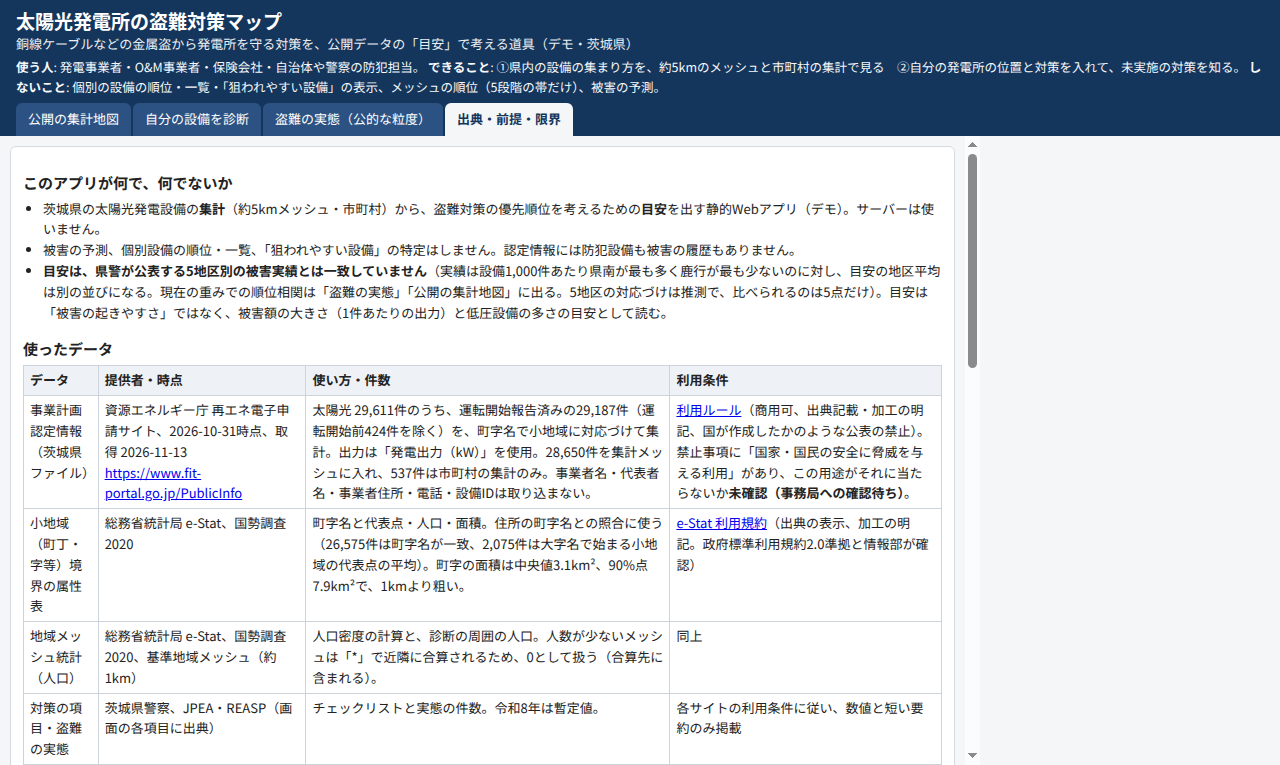
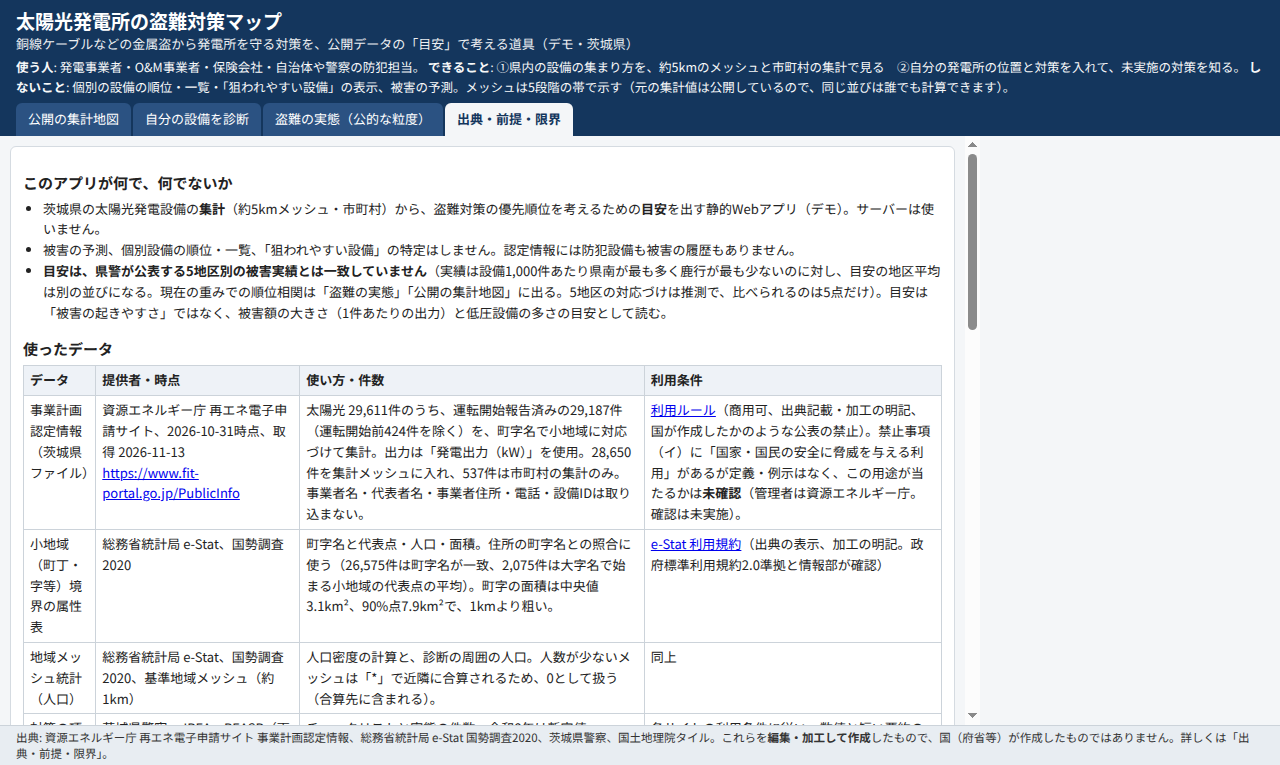
工兵: 太陽光盗難対策マップの憲兵・情報部・デザイン指摘に対応（主張を実装に合わせ弱める、全国2位に訂正、1億円にJPEA p.10、利用ルールの管理者と未確認を明記、出典・加工のフッター常時表示、順位の向きをそろえる、スマホ診断後の結果案内）

Changed region(s): [[0.0, 0.481, 0.9688, 1.0], [0.3125, 0.0902, 0.7812, 0.1203], [0.75, 0.4209, 0.7812, 0.481]]

diff --git a/contests/ichibiz-2026/app/solar-guard/web/app.js b/contests/ichibiz-2026/app/solar-guard/web/app.js
@@ -57,7 +57,7 @@
   }
   function buildDefs() {
     $('ind-defs').innerHTML = '<ul class="note" style="font-size:12.5px;padding-left:18px">' +
-      '<li><b>設備1件あたりの出力</b>: メッシュ内の認定設備（運転開始報告済み）の出力合計kW÷設備数。大きいほど高い。根拠: JPEA・REASPの資料は、高圧設備は被害額が最大と想定され、特別高圧でも1件1億円以上の例があるとする。<b>被害額の大きさの目安であって、被害の起きやすさの証拠ではない</b>。出力合計そのものは設備数とほぼ同じ並びになるため、1件あたりに直した。</li>' +
+      '<li><b>設備1件あたりの出力</b>: メッシュ内の認定設備（運転開始報告済み）の出力合計kW÷設備数。大きいほど高い。根拠: JPEA・REASPの資料p.10は、高圧設備は被害額が最大と想定され、「警備の厳しい特別高圧設備でも、一件当りの被害1億円以上になる例も多く」とする。これは例示で、平均ではない（同資料p.14の最大被害額は特定の発電所ではなく、ケーブル以外の機器の被害も含む。p.14のアンケートの平均は特別高圧4,330万円・高圧2,560万円・低圧150万円で、p.10の「高圧が最大と想定」とは並びが異なる）。<b>被害額の大きさの目安であって、被害の起きやすさの証拠ではない</b>。出力合計そのものは設備数とほぼ同じ並びになるため、1件あたりに直した。</li>' +
       '<li><b>低圧（50kW未満）の割合</b>: メッシュ内の設備のうち出力50kW未満の件数の割合。高いほど高い。根拠: 同資料は「警備体制の弱い低圧事業用設備も短時間犯行の被害が増えている」とし、茨城県警も小規模太陽光での発生が多いとする。警備の強さそのものは測っていない。県内ではどの地区でも低圧が約9割（88〜93%）で、地区のあいだの差は小さい。</li>' +
       '<li><b>周囲の人の少なさ（参考。初期値0）</b>: 集計メッシュの2020年国勢調査人口÷(25×約1.04km²)＝常住人口密度。低いほど高い。JPEA・REASPの資料や茨城県警は「人目につきにくい立地」を挙げるが、県警の5地区別の被害と照らすと対応せず（下の「県警の被害実績との食い違い」）、常住人口は夜間・休日の人通りや見通しの代理として弱いため、初期は目安に使わない。海に面したメッシュは海の面積も含むため人口密度が低く出る。</li>' +
       '<li>3つとも「公開データから作れる代理指標」で、防犯設備・被害の履歴・実際の見通しは含まない。重みに公的な根拠はなく、初期値は「出力1・低圧割合1・人の少なさ0」。県警の被害実績に合わせて決めたものではなく、実績に合わせて重みを変えて「当たる」ことを示す使い方はしない（5地区の5点だけで検証できない）。</li></ul>';
@@ -84,15 +84,15 @@
   function renderDist() {
     if (!S.dist) return;
     var d = S.dist, n = d.rows.length;
-    var h = '<div class="scroll"><table class="dist cards"><tr><th class="l">地区（県の区分で推測）</th><th>県警の被害（件）</th><th>設備数</th><th>設備1,000件あたりの被害</th><th>被害率の順</th><th>目安の地区平均の順</th></tr>';
+    var h = '<div class="scroll"><table class="dist cards"><tr><th class="l">地区（県の区分で推測）</th><th>県警の被害（件）</th><th>設備数</th><th>被害率（設備1,000件あたりの県警の件数。参考値）</th><th>被害率の順（高い方から）</th><th>目安の地区平均の順（高い方から）</th></tr>';
     d.rows.slice().sort(function (a, b) { return (b.rate || 0) - (a.rate || 0); }).forEach(function (r) {
-      h += '<tr><td class="l" data-label="地区">' + esc(r.area) + '</td><td data-label="県警の被害（件）">' + n0(r.theft) + '</td><td data-label="設備数">' + n0(r.plants) + '</td><td data-label="設備1,000件あたりの被害">' + (r.rate == null ? '—' : n1(r.rate)) + '</td><td data-label="被害率の順">' + (r.rankRate == null ? '—' : r.rankRate + '位／' + n) + '</td><td data-label="目安の地区平均の順">' + (r.rankScore == null ? '—' : r.rankScore + '位／' + n) + '</td></tr>';
+      h += '<tr><td class="l" data-label="地区">' + esc(r.area) + '</td><td data-label="県警の被害（件）">' + n0(r.theft) + '</td><td data-label="設備数">' + n0(r.plants) + '</td><td data-label="被害率（設備1,000件あたり。参考値）">' + (r.rate == null ? '—' : n1(r.rate)) + '</td><td data-label="被害率の順（高い方から）">' + (r.rankRate == null ? '—' : r.rankRate + '位／' + n) + '</td><td data-label="目安の地区平均の順（高い方から）">' + (r.rankScore == null ? '—' : r.rankScore + '位／' + n) + '</td></tr>';
     });
     h += '</table></div>';
     var msg = S.zero || d.rho == null ? '重みがすべて0のため、目安の側は出ません。' :
       '現在の重みでは、被害率の順と目安の地区平均の順の順位相関は <b>' + d.rho.toFixed(2) + '</b>（+1で一致、−1で逆）。' + (d.rho > 0 ? '' : '<b>目安は県警の地区別の被害と逆向きか、対応していません。</b>') + '5点だけの比較で、有意とは言えません。';
-    var html = '<p class="note">' + msg + '（順は、被害率が高い・目安が高い地区ほど上位。被害は県警が公表している地区別の件数）</p>' + h +
-      '<p class="note">地区ごとの設備数は、県の地域区分の市町村の設備数を足したもの。県警の5地区が県の区分と同じ市町村の範囲かは誌面に記載がなく、<b>この対応は推測</b>です。令和8年9月末の暫定値で、期間は1年に満たない。</p>';
+    var html = '<p class="note">' + msg + '（順は、被害率・目安のどちらも高い方から1位。被害は県警が公表している地区別の件数）</p>' + h +
+      '<p class="note"><b>被害率</b>は、分子が県警の「太陽光発電施設関係」の発生件数（出力20kW未満や認定外の設備の件数を含みうる）、分母が認定情報の運転開始報告済み・出力20kW以上の設備数で、定義が違うため参考値。地区ごとの設備数は、県の地域区分の市町村の設備数を足したもの。県警の5地区が県の区分と同じ市町村の範囲かは誌面に記載がなく、<b>この対応は推測</b>です。令和8年9月末の暫定値で、期間は1年に満たない。</p>';
     ['dist-compare', 'dist-compare2'].forEach(function (id) { if ($(id)) $(id).innerHTML = html; });
   }
 
@@ -234,6 +234,15 @@
     $('in-lat').value = lat.toFixed(4); $('in-lon').value = lon.toFixed(4);
     msg.textContent = '位置を受け取りました（この端末の中だけで使います。地図は動かしません）。'; msg.className = 'note';
     showPoint(); renderDiag();
+    showSummary();
+  }
+  /* 診断直後に、受付欄へ結果の要約と「結果を見る」案内を出す（スクロールは勝手にしない。回答の変更では更新しない） */
+  function showSummary() {
+    var msg = $('pos-msg'), r = S.res;
+    if (!r) return;
+    msg.innerHTML = '位置を受け取りました（この端末の中だけで使います。地図は動かしません）。<b>診断しました</b>: 対象' + r.total + '項目のうち、実施していない' + r.notDone.length + '件・わからない' + r.unknown.length + '件。 <a href="#box-result" id="go-result">結果を見る</a>';
+    msg.className = 'note';
+    $('go-result').addEventListener('click', function (e) { e.preventDefault(); $('box-result').scrollIntoView({ block: 'start' }); });
   }
   function showPoint() {
     if (!map || !mapReady || S.diag.lon == null) return;
@@ -312,25 +321,25 @@
       '<li>被害の予測、個別設備の順位・一覧、「狙われやすい設備」の特定はしません。認定情報には防犯設備も被害の履歴もありません。</li>' +
       '<li><b>目安は、県警が公表する5地区別の被害実績とは一致していません</b>（実績は設備1,000件あたり県南が最も多く鹿行が最も少ないのに対し、目安の地区平均は別の並びになる。現在の重みでの順位相関は「盗難の実態」「公開の集計地図」に出る。5地区の対応づけは推測で、比べられるのは5点だけ）。目安は「被害の起きやすさ」ではなく、被害額の大きさ（1件あたりの出力）と低圧設備の多さの目安として読む。</li></ul>' +
       '<h2>使ったデータ</h2><table><tr><th class="l">データ</th><th class="l">提供者・時点</th><th class="l">使い方・件数</th><th class="l">利用条件</th></tr>' +
-      '<tr><td class="l">事業計画認定情報（茨城県ファイル）</td><td class="l">資源エネルギー庁 再エネ電子申請サイト、' + esc(m.as_of) + '時点、取得 ' + esc(m.retrieved) + '<br>' + link(m.plants_url, m.plants_url) + '</td><td class="l">太陽光 ' + n0(st.rows) + '件のうち、運転開始報告済みの' + n0(st.counted) + '件（運転開始前' + n0(st.not_started) + '件を除く）を、町字名で小地域に対応づけて集計。出力は「発電出力（kW）」を使用。' + n0(st.placed) + '件を集計メッシュに入れ、' + n0(st.unplaced) + '件は市町村の集計のみ。事業者名・代表者名・事業者住所・電話・設備IDは取り込まない。</td><td class="l">' + link(m.terms_url, '利用ルール') + '（商用可、出典記載・加工の明記、国が作成したかのような公表の禁止）。禁止事項に「国家・国民の安全に脅威を与える利用」があり、この用途がそれに当たらないか<b>未確認（事務局への確認待ち）</b>。</td></tr>' +
+      '<tr><td class="l">事業計画認定情報（茨城県ファイル）</td><td class="l">資源エネルギー庁 再エネ電子申請サイト、' + esc(m.as_of) + '時点、取得 ' + esc(m.retrieved) + '<br>' + link(m.plants_url, m.plants_url) + '</td><td class="l">太陽光 ' + n0(st.rows) + '件のうち、運転開始報告済みの' + n0(st.counted) + '件（運転開始前' + n0(st.not_started) + '件を除く）を、町字名で小地域に対応づけて集計。出力は「発電出力（kW）」を使用。' + n0(st.placed) + '件を集計メッシュに入れ、' + n0(st.unplaced) + '件は市町村の集計のみ。事業者名・代表者名・事業者住所・電話・設備IDは取り込まない。</td><td class="l">' + link(m.terms_url, '利用ルール') + '（商用可、出典記載・加工の明記、国が作成したかのような公表の禁止）。禁止事項（イ）に「国家・国民の安全に脅威を与える利用」があるが定義・例示はなく、この用途が当たるかは<b>未確認</b>（管理者は資源エネルギー庁。確認は未実施）。</td></tr>' +
       '<tr><td class="l">小地域（町丁・字等）境界の属性表</td><td class="l">総務省統計局 e-Stat、国勢調査2020</td><td class="l">町字名と代表点・人口・面積。住所の町字名との照合に使う（' + n0(st.placed_exact) + '件は町字名が一致、' + n0(st.placed_ohaza) + '件は大字名で始まる小地域の代表点の平均）。町字の面積は中央値' + st.town_area_km2_median + 'km²、90%点' + st.town_area_km2_p90 + 'km²で、1kmより粗い。</td><td class="l">' + link(m.estat_terms, 'e-Stat 利用規約') + '（出典の表示、加工の明記。政府標準利用規約2.0準拠と情報部が確認）</td></tr>' +
       '<tr><td class="l">地域メッシュ統計（人口）</td><td class="l">総務省統計局 e-Stat、国勢調査2020、基準地域メッシュ（約1km）</td><td class="l">人口密度の計算と、診断の周囲の人口。人数が少ないメッシュは「*」で近隣に合算されるため、0として扱う（合算先に含まれる）。</td><td class="l">同上</td></tr>' +
       '<tr><td class="l">対策の項目・盗難の実態</td><td class="l">茨城県警察、JPEA・REASP（画面の各項目に出典）</td><td class="l">チェックリストと実態の件数。令和8年は暫定値。</td><td class="l">各サイトの利用条件に従い、数値と短い要約のみ掲載</td></tr>' +
       '<tr><td class="l">背景地図</td><td class="l">地理院タイル（淡色地図）</td><td class="l">地図の背景のみ。地理院の住所検索APIは使っていない</td><td class="l">国土地理院の利用規約</td></tr>' +
       '<tr><td class="l">描画</td><td class="l">MapLibre GL JS 4.7.1</td><td class="l"></td><td class="l">BSD-3-Clause</td></tr></table>' +
       '<p class="note">本アプリは、再エネ電子申請サイトの認定情報と、総務省統計局 e-Stat の国勢調査データを加工して作成した。国（資源エネルギー庁・総務省統計局）が作成したものではない。</p>' +
-      '<h2>目安の定義と、県警の被害実績との食い違い</h2><ul><li>3つの指標（設備1件あたりの出力・低圧の割合・周囲の人の少なさ）を、県内の集計メッシュ' + n0(S.cells.length) + '個の中での相対位置に直し、利用者が決める重みで平均。画面と書き出しに出すのは5段階の帯だけで、連続のスコアや各指標の順位に当たる値は出さない。初期の重みは「出力1・低圧割合1・人の少なさ0」。定義と根拠は「公開の集計地図」の「3つの指標の定義と根拠」。</li>' +
+      '<h2>目安の定義と、県警の被害実績との食い違い</h2><ul><li>3つの指標（設備1件あたりの出力・低圧の割合・周囲の人の少なさ）を、県内の集計メッシュ' + n0(S.cells.length) + '個の中での相対位置に直し、利用者が決める重みで平均。画面と書き出しに出すのは5段階の帯で、連続のスコアや各指標の順位の列は出さない（同点の多い帯であって、順位の隠蔽ではない。元の集計値は公開しており、指標は誰でも再計算できる）。初期の重みは「出力1・低圧割合1・人の少なさ0」。定義と根拠は「公開の集計地図」の「3つの指標の定義と根拠」。</li>' +
       '<li><b>見直しの経緯</b>: 最初の版は「人の少なさ・出力合計・低圧割合」を等しい重みで平均していた。県警の5地区別の被害（設備1,000件あたり）と市町村の目安の地区平均を並べると逆向き（順位相関−0.90）だった。そこで、被害の実績に合わせるのではなく、指標そのものの妥当性から (1) 常住人口の少なさを初期値0の参考にする（人目の代理として弱く、海面を含むメッシュで高く出る）、(2) 出力合計は設備数とほぼ同じ並びなので1件あたりの出力に直す、の2点を直した。見直しの際に実績の並びを見ているので、独立の検証ではない。見直し後も実績とは一致せず（初期の重みで順位相関−0.60）、一致するとは主張しない。</li>' +
       '<li>相対位置なので、県全体が安全・危険という意味はない。指標の選び方と重みに公的な根拠はなく、的中率などの検証はしていない。</li></ul>' +
       '<h2>悪用を防ぐ設計</h2><ul>' +
       '<li>犯人は事前に下見をする（JPEA・REASP p.9、茨城県警）。そのため、個別設備の位置・順位・一覧は作らない。公開データから取り込む設備の行は、ビルド時に集計して捨て、画面・書き出しのデータには残らない。</li>' +
-      '<li>公開は約5kmメッシュと市町村の集計のみ。メッシュの順位が作れないよう、画面・書き出し・公開のデータに、メッシュの連続スコアや各指標の順位に当たる値は出さず、5段階の帯（同じ帯に多数のメッシュが入る）にとどめる。出すのは件数・出力計・50kW未満の件数・人口など、元の公開データから集計できる値。</li>' +
-      '<li>設備が' + m.k_min + '件未満のメッシュ・市町村は、件数・容量・指標を出力しない。さらに、設備が' + m.dom_n + '件未満のメッシュは、50kW以上の設備が1件以下なら隠す（件数・出力計・50kW未満の件数から、その1件の出力が狭い幅で割り出せるため）。出力計は' + m.kw_round + 'kW単位に丸めて出す。' + n0(st.cells_hidden) + 'メッシュ（設備計' + n0(st.plants_in_hidden_cells) + '件）を隠している。しきい値は小さい集計を隠すための最小限の目安で、統計的な匿名性を保証するものではない。市町村の合計とメッシュの合計の差から、隠したメッシュの合計は推定できる。</li>' +
+      '<li>公開は約5kmメッシュと市町村の集計のみ。メッシュの目安は5段階の帯（同じ帯に多数のメッシュが入る）で示し、連続スコアや各指標の順位の列は出さない。ただし、出している件数・出力計・50kW未満の件数・人口は元の公開データから集計した値で、これらから3つの指標は誰でも再計算でき、並べ替えれば同じような並びを作れる。帯は手がかりを足さないための表示の工夫で、順位が作れないことを保証するものではない。公開する集計値の粒度は、総司令官の判断待ち。</li>' +
+      '<li>設備が' + m.k_min + '件未満のメッシュ・市町村は、件数・容量・指標を出力しない。さらに、設備が' + m.dom_n + '件未満のメッシュは、50kW以上の設備が1件以下なら隠す（件数・出力計・50kW未満の件数から、その1件の出力が狭い幅で割り出せるため）。設備が'+m.dom_n+'件以上でも1件の大きな設備が出力計の大半を占めるメッシュは残る（対策していない。元の認定情報が出力まで公開しているため新たに漏れる情報はほぼないが、しきい値に統計的な根拠はない）。出力計は' + m.kw_round + 'kW単位に丸めて出す。' + n0(st.cells_hidden) + 'メッシュ（設備計' + n0(st.plants_in_hidden_cells) + '件）を隠している。しきい値は小さい集計を隠すための最小限の目安で、統計的な匿名性を保証するものではない。市町村の合計とメッシュの合計の差から、隠したメッシュの合計は推定できる。</li>' +
       '<li>事業者の自己診断は、入力をブラウザの中で計算し、送信も保存もしない。診断の位置は約5kmメッシュの単位でだけ使う（人口もこの単位）。座標を入力しても地図は動かさず、地図の拡大も縮尺11（約16km四方のタイル）までに制限する。ただし地図を動かして見ている範囲の地図画像は、地理院が受け取るので、見ている範囲は地理院に伝わる。茨城県の外・海上の座標は受け付けない。</li>' +
       '<li>盗難の実態は、警察が公表している粒度（全国・県・県内5地区）にとどめた。</li>' +
       '<li>国は盗難防止の情報を、太陽光発電設備を設置する者など盗難に遭うおそれが大きい者に周知する形（盗難特定金属製物品の処分の防止等に関する法律 第16条。情報部の確認）を取っている。当事者が自分で使う診断はこの趣旨に沿う、というのが設計の考え方である（推測）。ただし元データの認定情報は地番まで公開されており、このアプリの秘匿は「他人に見つけられなくする」ものではなく、「元データ以上の手がかり（手薄さの順位）を足さない」ためのもの。</li></ul>' +
       '<h2>限界・要確認</h2><ul>' +
-      '<li><b>認定情報の利用ルールの禁止事項「国家・国民の安全に脅威を与える利用」に、この用途が当たらないかは未確認（事務局への確認待ち）。公開前に確認が要る。</b></li>' +
+      '<li><b>認定情報の利用ルールの禁止事項（イ）「国家・国民の安全に脅威を与える利用」に、この用途が当たるかは未確認。</b>利用ルール（再エネ電子申請サイト「ご利用上の注意」）の管理者は資源エネルギー庁で、禁止事項に定義・例示はない。資源エネルギー庁への確認は未実施（同庁への問い合わせは電話のみ）。公開前に確認が要る。</li>' +
       '<li>県警の5地区が茨城県の地域区分（県北・県央・鹿行・県南・県西）と同じ市町村の範囲かは誌面に記載がなく、地区別の設備数との対応は推測。被害は令和8年9月末の暫定値（期間は1年に満たない）で、「9月末」が累計かは誌面に明記がない。</li>' +
       '<li>目安と県警の地区別の被害は一致していない（上記）。県南・県西は千葉・埼玉に近く、アクセスや逃げやすさが効いている可能性があるが、検証していない（推測）。</li>' +
       '<li>出力20kW未満の太陽光は元データに含まれない。JPEA・REASPの資料では事業用の認定件数の94.6%が10〜50kW未満（2024年3月末）なので、小規模設備の一部は集計に入らない。</li>' +
@@ -357,7 +366,7 @@
     rows.push(['# 太陽光発電所の盗難対策マップ（デモ・茨城県）の集計。個別設備は含みません。被害の予測ではなく、公開情報から作った目安です。']);
     rows.push(['# 出典', m.plants_source + '（' + m.as_of + '時点、取得' + m.retrieved + '）を加工して作成。' + m.boundary_source + '。' + m.mesh_source + '。国が作成したものではありません。']);
     rows.push(['# 前提', '約5kmメッシュ（1kmメッシュ×5）。設備が' + m.k_min + '件未満のメッシュ・市町村は出力しません。位置は町字の代表点（広い大字ではずれます）。出力20kW未満は元データにありません。']);
-    rows.push(['# 重み', '設備1件あたりの出力=' + w.kw + ' 低圧割合=' + w.small + ' 人の少なさ=' + w.quiet + '（指標は県内の集計メッシュ／市町村の中での相対位置。目安は5段階の帯だけを出し、連続のスコア・順位は出しません）']);
+    rows.push(['# 重み', '設備1件あたりの出力=' + w.kw + ' 低圧割合=' + w.small + ' 人の少なさ=' + w.quiet + '（指標は県内の集計メッシュ／市町村の中での相対位置。目安は5段階の帯で示し、連続のスコア・順位の列は出しません。ただし元の集計値は含むので、並べ替えれば同じような並びは作れます）']);
     rows.push(['# 注意', '目安は県警の5地区別の被害実績とは一致していません（5地区と市町村の対応は推測）。出力計は' + m.kw_round + 'kW単位に丸めています。設備が少なく大きな設備の出力が推測できるメッシュも出力しません。']);
     rows.push([]);
     rows.push(['メッシュ別']);

diff --git a/contests/ichibiz-2026/app/solar-guard/web/index.html b/contests/ichibiz-2026/app/solar-guard/web/index.html
@@ -11,7 +11,7 @@
 <body data-tab="map">
 <header>
   <h1>太陽光発電所の盗難対策マップ <span>銅線ケーブルなどの金属盗から発電所を守る対策を、公開データの「目安」で考える道具（デモ・茨城県）</span></h1>
-  <p class="lead"><b>使う人</b>: 発電事業者・O&amp;M事業者・保険会社・自治体や警察の防犯担当。 <b>できること</b>: ①県内の設備の集まり方を、約5kmのメッシュと市町村の集計で見る　②自分の発電所の位置と対策を入れて、未実施の対策を知る。 <b>しないこと</b>: 個別の設備の順位・一覧・「狙われやすい設備」の表示、メッシュの順位（5段階の帯だけ）、被害の予測。</p>
+  <p class="lead"><b>使う人</b>: 発電事業者・O&amp;M事業者・保険会社・自治体や警察の防犯担当。 <b>できること</b>: ①県内の設備の集まり方を、約5kmのメッシュと市町村の集計で見る　②自分の発電所の位置と対策を入れて、未実施の対策を知る。 <b>しないこと</b>: 個別の設備の順位・一覧・「狙われやすい設備」の表示、被害の予測。メッシュは5段階の帯で示す（元の集計値は公開しているので、同じ並びは誰でも計算できます）。</p>
   <nav id="tabs" role="tablist" aria-label="画面の切り替え">
     <button type="button" role="tab" id="tab-map" data-tab="map" aria-selected="true">公開の集計地図</button>
     <button type="button" role="tab" id="tab-diag" data-tab="diag" aria-selected="false">自分の設備を診断</button>
@@ -29,15 +29,15 @@
         <ul>
           <li><b>被害の予測ではなく、公開情報から作った目安</b>です。認定情報には防犯設備も被害の履歴も入っていないため、「守りが手薄」は直接測れません。目安は3つの代理指標（下で重みを変えられます）の相対的な位置で、的中率などの検証はしていません。</li>
           <li><b>県警が公表する5地区別の被害実績と、この目安は一致していません</b>（下の「県警の被害実績との食い違い」）。「被害の起きやすさ」ではなく、被害額の大きさと低圧設備の多さの目安として読んでください。</li>
-          <li>表示するのは<b>約5kmのメッシュと市町村の集計だけ</b>。メッシュは<b>5段階の帯</b>だけで、順位や連続のスコアは出しません。設備が<span id="kmin">3</span>件未満などのメッシュは<b>色を付けずに隠します</b>（設備がないメッシュと見分けがつきません）。個別設備は地図にも表にも出ません。</li>
-          <li><b>認定情報の利用ルールの禁止事項「国家・国民の安全に脅威を与える利用」に、この用途が当たらないかは未確認</b>です（事務局への確認待ち）。</li>
+          <li>表示するのは<b>約5kmのメッシュと市町村の集計だけ</b>。メッシュの目安は<b>5段階の帯</b>で示し、連続のスコアや順位の列は出しません（ただし元の集計値は公開しているため、同じ並びは計算できます）。設備が<span id="kmin">3</span>件未満などのメッシュは<b>色を付けずに隠します</b>（設備がないメッシュと見分けがつきません）。個別設備は地図にも表にも出ません。</li>
+          <li><b>認定情報の利用ルールの禁止事項（イ）「国家・国民の安全に脅威を与える利用」に、この用途が当たるかは未確認</b>です。利用ルールの管理者は資源エネルギー庁（<a href="https://www.fit-portal.go.jp/Terms" target="_blank" rel="noopener">再エネ電子申請サイト「ご利用上の注意」</a>）で、禁止事項に定義・例示はなく、確認は未実施です。</li>
           <li>設備の位置は<b>町字（大字）の代表点</b>で、広い大字ではメッシュがずれることがあります。出力20kW未満の太陽光は元データに含まれません。</li>
         </ul>
       </div>
       <div class="box">
         <h2>目安の重み <span class="sub">（0〜5。0にするとその指標を使わない）</span></h2>
         <div id="weights"></div>
-        <p class="note">各指標を「県内の集計メッシュの中での相対的な位置」に直し、重みで平均して、色は5段階の帯にします。連続のスコアや順位は出しません。初期値は、人の少なさを0（参考）にしています（理由は下の定義）。</p>
+        <p class="note">各指標を「県内の集計メッシュの中での相対的な位置」に直し、重みで平均して、色は5段階の帯にします。連続のスコアや順位の列は出しません。初期値は、人の少なさを0（参考）にしています（理由は下の定義）。</p>
         <details><summary>3つの指標の定義と根拠</summary><div id="ind-defs"></div></details>
       </div>
       <div class="box" id="dist-box">
@@ -52,7 +52,7 @@
       </div>
       <div class="box">
         <h2>書き出し（集計のみ）</h2>
-        <p class="note">メッシュ別と市町村別の集計・前提・出典を1つのCSV（UTF-8、BOM付き）にします。目安は5段階の帯だけで、順位は含みません。個別設備は含みません。この端末の中で作るだけで、どこにも送信しません。</p>
+        <p class="note">メッシュ別と市町村別の集計・前提・出典を1つのCSV（UTF-8、BOM付き）にします。目安は5段階の帯だけで、連続のスコアや順位の列は含みません（元の集計値は含むので、並べ替えれば同じ並びは作れます）。個別設備は含みません。この端末の中で作るだけで、どこにも送信しません。</p>
         <button id="btn-csv" type="button" class="primary">集計をCSVでダウンロード</button>
       </div>
     </div>
@@ -106,6 +106,7 @@
     <div id="legend"></div>
   </section>
 </main>
+<footer id="credit">出典: 資源エネルギー庁 再エネ電子申請サイト 事業計画認定情報、総務省統計局 e-Stat 国勢調査2020、茨城県警察、国土地理院タイル。これらを<b>編集・加工して作成</b>したもので、国（府省等）が作成したものではありません。詳しくは「出典・前提・限界」。</footer>
 
 <script src="https://unpkg.com/maplibre-gl@4.7.1/dist/maplibre-gl.js" integrity="sha384-SYKAG6cglRMN0RVvhNeBY0r3FYKNOJtznwA0v7B5Vp9tr31xAHsZC0DqkQ/pZDmj" crossorigin="anonymous"></script>
 <script src="lib.js"></script>

diff --git a/contests/ichibiz-2026/app/solar-guard/web/style.css b/contests/ichibiz-2026/app/solar-guard/web/style.css
@@ -11,6 +11,7 @@ main { display: grid; grid-template-columns: minmax(420px, 580px) 1fr; flex: 1 1
 body[data-tab=reality] main, body[data-tab=about] main { grid-template-columns: 1fr; }
 body[data-tab=reality] #mapwrap, body[data-tab=about] #mapwrap { display: none; }
 body[data-tab=reality] #panel, body[data-tab=about] #panel { max-width: 980px; }
+footer#credit { flex: none; padding: 3px 16px; font-size: 11.5px; line-height: 1.45; background: #e8edf2; color: #333; border-top: 1px solid #ccd3da; }
 #panel { overflow-y: auto; padding: 10px; min-height: 0; }
 .pane[hidden] { display: none; }
 #mapwrap { position: relative; }
@@ -70,6 +71,7 @@ td.l, th.l { text-align: left; }
 @media (max-width: 720px) {
   body { font-size: 14px; height: auto; display: block; overflow: visible; }
   header h1 { font-size: 16px; }
+  footer#credit { position: sticky; bottom: 0; z-index: 5; font-size: 11px; padding: 3px 10px; }
   main { display: flex; flex-direction: column; height: auto; }
   #mapwrap { order: 1; height: 340px; flex: none; }
   #panel { order: 2; overflow: visible; }

diff --git a/contests/ichibiz-2026/app/solar-guard/tests/lib_test.js b/contests/ichibiz-2026/app/solar-guard/tests/lib_test.js
@@ -165,6 +165,9 @@ t('県警の5地区との比較: 市町村の対応・順位相関の計算', ()
   assert.equal(d.rows.length, 5);
   d.rows.forEach((r) => assert.ok(r.plants > 1000 && r.rate > 0 && r.rankScore >= 1 && r.rankScore <= 5));
   assert.ok(d.rho >= -1 && d.rho <= 1);
+  // 順位は高い方から1位（デザイン審査 M1）。被害率が最大の県南が被害率1位、最小の鹿行が5位。README の表と同じ
+  const rk = {}; d.rows.forEach((r) => { rk[r.area] = [r.rankRate, r.rankScore]; });
+  assert.deepEqual(rk, { 県西: [2, 5], 県南: [1, 4], 県央: [4, 3], 鹿行: [5, 2], 県北: [3, 1] });
   // README・画面に書いた値（初期の重みで −0.60、最初の版の重みで −0.90）と合う
   assert.equal(d.rho.toFixed(2), '-0.60');
   assert.equal(G.districtCompare(R, T, G.scoreMunis(munis.rows, { quiet: 1, kw: 1, small: 1 })).rho != null, true);

diff --git a/contests/ichibiz-2026/app/solar-guard/web/lib.js b/contests/ichibiz-2026/app/solar-guard/web/lib.js
@@ -137,7 +137,8 @@
       for (var i = 0; i < n; i++) { c += (rr[i] - ma) * (rs[i] - mb); va += (rr[i] - ma) * (rr[i] - ma); vb += (rs[i] - mb) * (rs[i] - mb); }
       rho = va && vb ? c / Math.sqrt(va * vb) : null;
     }
-    ok.forEach(function (r, i) { r.rankRate = Math.round(rr[i] / 100 * (n - 1)) + 1; r.rankScore = Math.round(rs[i] / 100 * (n - 1)) + 1; }); // 1=最低 … n=最高
+    ok.forEach(function (r, i) { r.rankRate = Math.round(rr[i] / 100 * (n - 1)) + 1; r.rankScore = Math.round(rs[i] / 100 * (n - 1)) + 1; }); // 1=最低 … n=最高（計算用の昇順）
+    ok.forEach(function (r) { r.rankRate = n + 1 - r.rankRate; r.rankScore = n + 1 - r.rankScore; }); // 表示用に、高い方から1位へ向きをそろえる
     return { rows: rows, rho: rho };
   }
 

diff --git a/contests/ichibiz-2026/app/solar-guard/fetch_raw.py b/contests/ichibiz-2026/app/solar-guard/fetch_raw.py
@@ -4,7 +4,7 @@
 
 1. 認定情報（資源エネルギー庁 再エネ電子申請サイト）茨城県ファイル: 公表ページのリンクから都道府県名で探す
 2. e-Stat 国勢調査 2020 小地域（町丁・字等）境界 茨城県（世界測地系緯度経度・シェープ。属性表 .dbf の代表点と人口を使う）
-3. e-Stat 国勢調査 2020 地域メッシュ統計 人口及び世帯（500m メッシュ）第1次地域区画 5339 5340 5439 5539 5540（茨城県を含む区画）
+3. e-Stat 国勢調査 2020 地域メッシュ統計 人口及び世帯（基準地域メッシュ、約1km）。第1次地域区画 5339 5340 5439 5440 5539 5540（茨城県を含む6区画）
 """
 import html
 import re
